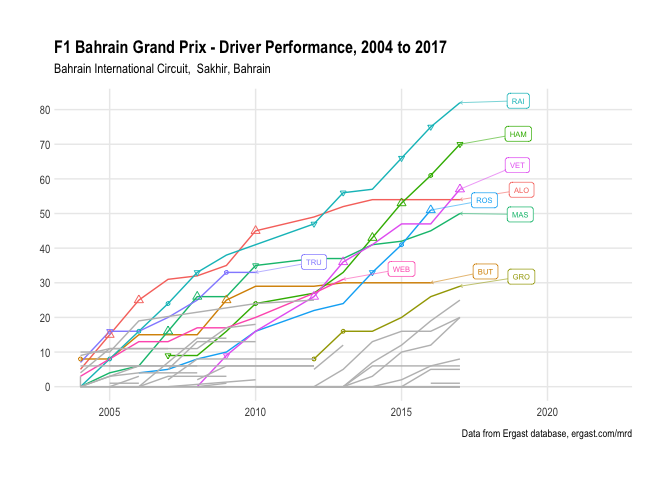
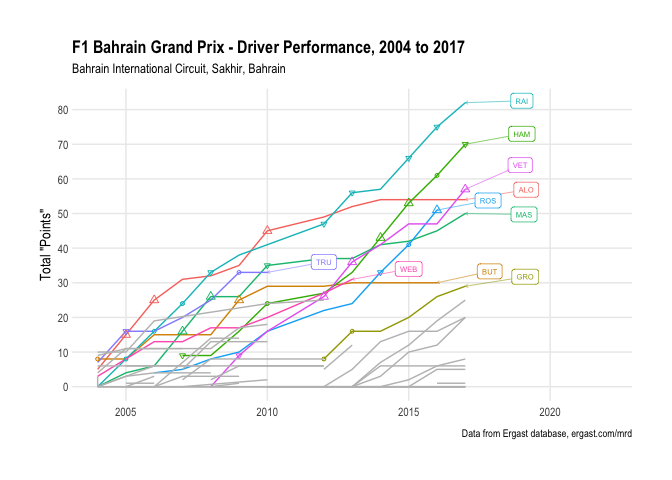
Minor updates; restore performance chart y-axis label

diff --git a/README.md b/README.md
@@ -1,6 +1,6 @@
 # FORMULA ONE Bahrain Grand Prix, 2018
 
-DataJunkie reports for the FORMULA 1 2018 BAHRAIN GRAND PRIX.
+DataJunkie reports for the FORMULA 1 GULF AIR BAHRAIN GRAND PRIX, 2018.
 
 
 ---

diff --git a/circuit/circuit_performance.md b/circuit/circuit_performance.md
@@ -17,7 +17,7 @@ Individual winners at this circuit:
 | VET    |    3 |
 | HAM    |    2 |
 
-Podiums at this circuit:]
+Podiums at this circuit:
 
 | Driver | Podiums |
 | :----- | ---: |
